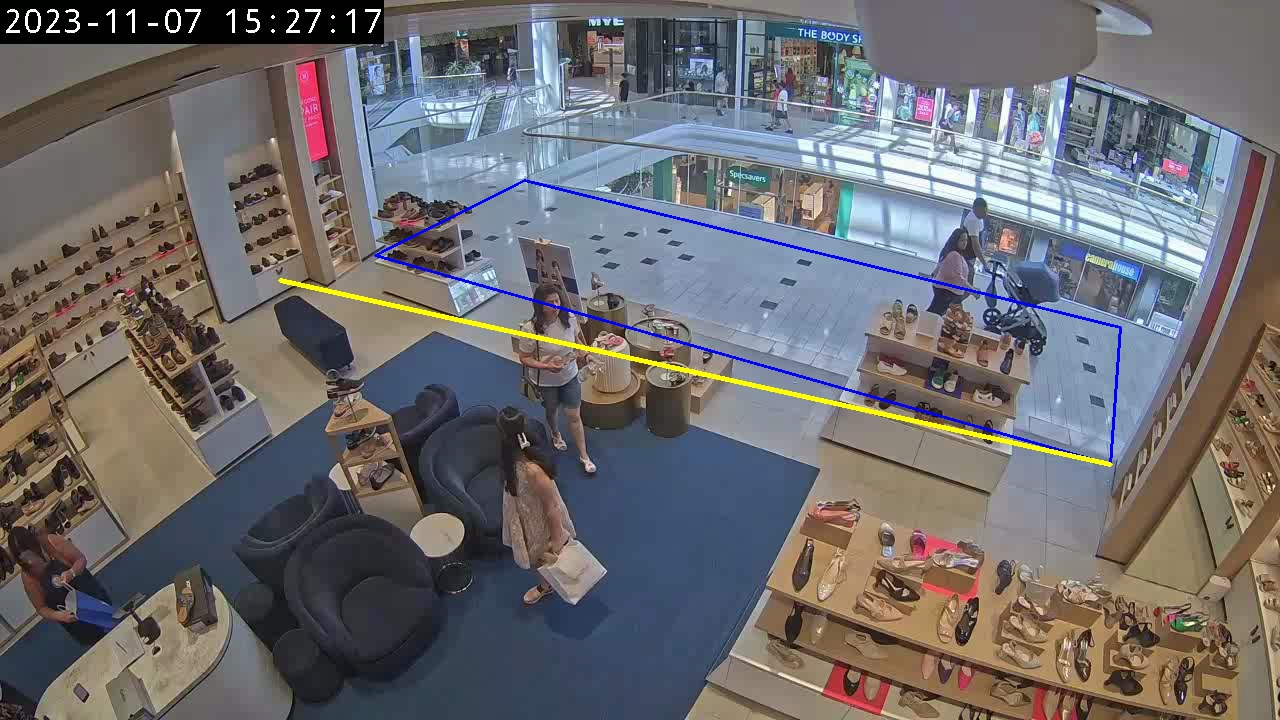
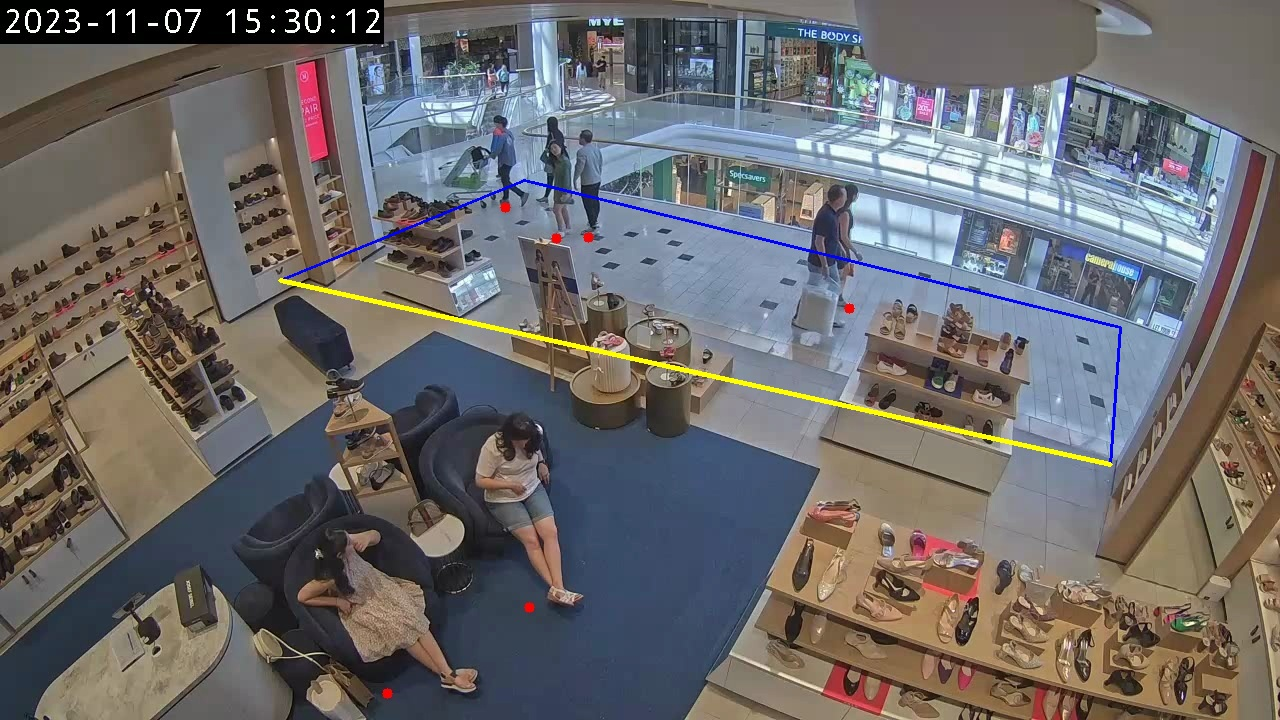
Update code

diff --git a/src/main.py b/src/main.py
@@ -1,32 +1,28 @@
-import cv2
-import numpy as np
-from ultralytics import YOLO
 from collections import defaultdict, deque
 import json
 from pathlib import Path
 
-from util import check_if_enter_store, check_if_exit_store, check_point_in_stop_zone, put_top_right_text
+import cv2
+import numpy as np
+import pandas as pd
+from sixdrepnet import SixDRepNet
+from ultralytics import YOLO
+
+from util import (
+    check_if_enter_store,
+    check_if_exit_store,
+    check_point_in_stop_zone,
+    put_top_right_text,
+    detect_face,
+    detect_head_pose,
+)
 
 current_dir = Path.cwd()
-
 config_path = current_dir.parents[0] / "config" / "task1.json"
+model_dir = current_dir.parents[0] / "model"
 
 with open(config_path, "r", encoding="utf-8") as f:
     config = json.load(f)
-
-
-video_path = current_dir.parents[0] / "input" / "enter.mp4"
-output_dir = current_dir.parents[0] / "output"
-output_path = output_dir / "task1_output.mp4"
-
-
-
-# VIDEO_PATH = "/Users/luqman/Downloads/Hendricks_Retail_Video_Analytics_Take_Home_Assessment_Brief_v5 1/raw_videos/entrance.mp4"
-# VIDEO_PATH = "/Users/luqman/Downloads/enter.mp4"
-
-
-
-
 
 # Minimum number of frames a person must remain almost stationary to be considered stopped.
 STOP_FRAMES = config["stop_frames"]
@@ -34,31 +30,34 @@ STOP_FRAMES = config["stop_frames"]
 STOP_DISTANCE = config["stop_distance"]
 # Number of frames to remember for each person
 HISTORY_LENGTH = config["history_length"]
+STOP_ZONE = np.array(config["stop_zone"], dtype=np.int32)
+ENTRANCE_A = config["entrance_a"]
+ENTRANCE_B = config["entrance_b"]
 
-STOP_ZONE = np.array([[524, 180], [1110, 464], [1120, 327], [375, 255]], dtype=np.int32)
-ENTRANCE_A = (280, 280)
-ENTRANCE_B = (1110, 464)
+yolo_model_path = model_dir / config["yolo_model_filename"]
+face_model_path = model_dir / config["face_model_filename"]
+yolo_model = YOLO(model=yolo_model_path)
+face_model = YOLO(model=face_model_path)
+pose_model = SixDRepNet(gpu_id=-1)
 
-
-positions = defaultdict(lambda: deque(maxlen=HISTORY_LENGTH))
-stop_counter = defaultdict(int)
-person_state = defaultdict(lambda: "UNK")
-
-
-entered_counter = 0
-pass_by_counter = 0
-
-model = YOLO("yolo26x.pt")
+video_path = current_dir.parents[0] / "input" / config["input_video_filename"]
+output_dir = current_dir.parents[0] / "output"
+output_path = output_dir / config["output_video_filename"]
+output_csv_path = output_dir / config["output_csv_filename"]
 
 
 cap = cv2.VideoCapture(video_path)
 fps = cap.get(cv2.CAP_PROP_FPS)
 width = int(cap.get(cv2.CAP_PROP_FRAME_WIDTH))
 height = int(cap.get(cv2.CAP_PROP_FRAME_HEIGHT))
-
 fourcc = cv2.VideoWriter_fourcc(*"mp4v")
 save_video = cv2.VideoWriter(output_path, fourcc, fps, (width, height))
 
+positions = defaultdict(lambda: deque(maxlen=HISTORY_LENGTH))
+stop_counter = defaultdict(int)
+person_state = defaultdict(lambda: "UNK")
+entered_counter = 0
+pass_by_counter = 0
 frame_number = 0
 
 while True:
@@ -67,8 +66,7 @@ while True:
         break
     frame_number += 1
 
-    # YOLO + ByteTrack
-    results = model.track(
+    results = yolo_model.track(
         frame,
         persist=True,
         tracker="yolo_tracker.yaml",
@@ -143,7 +141,20 @@ while True:
                     if person_exited:
                         person_state[person_id] = "EXITED"
 
-                if person_state[person_id] == "STOPPED" and not inside_stop_zone:
+                if person_state[person_id] == "STOPPED":
+                    if frame_number % 5 == 0:
+                        person_crop = frame[
+                            max(0, y1) : min(frame.shape[0], y2),
+                            max(0, x1) : min(frame.shape[1], x2),
+                        ]
+                        if person_crop.size > 0:
+                            face_crop = detect_face(person_crop)
+                            if face_crop is not None and face_crop.size > 0:
+                                yaw = detect_head_pose(face_crop)
+                                if yaw >= 30 and yaw <= 90:
+                                    person_state[person_id] = "INTERESTED"
+
+                if person_state[person_id] == "INTERESTED" and not inside_stop_zone:
                     person_state[person_id] = "PASSED_BY"
                     pass_by_counter += 1
 
@@ -152,12 +163,24 @@ while True:
             put_top_right_text(counter_text_1, height, width, frame)
             put_top_right_text(counter_text_2, height, width, frame, height_margin=40)
 
-    # cv2.imshow("Task 1", frame)
-    # key = cv2.waitKey(1) & 0xFF
-    # if key == ord("q"):
-    #     break
+#     cv2.imshow("Task 1", frame)
+#     key = cv2.waitKey(1) & 0xFF
+#     if key == ord("q"):
+#         break
 
-    save_video.write(frame)
+#     # save_video.write(frame)
 
-cap.release()
-cv2.destroyAllWindows()
+# cap.release()
+# cv2.destroyAllWindows()
+
+
+print("Writing output into csv ...")
+result_data = {
+    "Total Interested": entered_counter + pass_by_counter,
+    "Interested Entered": entered_counter,
+    "Interested Passed By": pass_by_counter
+}
+df = pd.DataFrame(result_data, index=[0])
+df.to_csv(output_csv_path, index=False)
+
+print("Done")

diff --git a/src/util.py b/src/util.py
@@ -60,12 +60,29 @@ def put_top_right_text(text, image_height, image_width, image, height_margin=0):
     cv2.putText(image, text, (x, y), font, font_scale, color, thickness, cv2.LINE_AA)
 
 
-if __name__ == "__main__":
-    STOP_ZONE = np.array(
-        [[524, 180], [1120, 327], [1110, 464], [375, 255]], dtype=np.int32
-    )
-    ENTRANCE_A = (375, 255)
-    ENTRANCE_B = (1110, 464)
+def detect_face(face_model, person_img):
+    face_results = face_model(person_img, conf=0.4, verbose=False)
 
-    o = check_point_in_stop_zone(point=(723, 268), polygon=STOP_ZONE)
-    print(o)
+    if len(face_results) < 1 or len(face_results[0].boxes) < 1:
+        return None
+
+    face_box = face_results[0].boxes[0]
+    face_x1, face_y1, face_x2, face_y2 = face_box.xyxy[0].cpu().numpy().astype(int)
+
+    pad_x = int((face_x2 - face_x1) * 0.2)
+    pad_y = int((face_y2 - face_y1) * 0.2)
+    px1 = max(0, face_x1 - pad_x)
+    py1 = max(0, face_y1 - pad_y)
+    px2 = min(person_img.shape[1], face_x2 + pad_x)
+    py2 = min(person_img.shape[0], face_y2 + pad_y)
+
+    face_crop = person_img[py1:py2, px1:px2]
+    return face_crop
+
+
+def detect_head_pose(pose_model, face_img):
+    """
+    Return: only yaw
+    """
+    pitch, yaw, roll = pose_model.predict(face_img)
+    return yaw

diff --git a/plot.py b/plot.py
@@ -4,13 +4,13 @@ import numpy as np
 ENTRANCE_A = (280, 280)
 ENTRANCE_B = (1110, 464)
 
-frame = cv2.imread('frame_1.png')
+frame = cv2.imread('frame.jpg')
 
 STOP_ZONE = np.array([
     [524, 180],
     [1120, 327],
     [1110, 464],
-    [375, 255]
+    [280, 280],
 ], dtype=np.int32)
 
 cv2.polylines(frame, [STOP_ZONE], True, (255, 0, 0), 2)

diff --git a/temp.py b/temp.py
@@ -66,7 +66,6 @@ if results[0].boxes.id is not None:
 
                 pad_x = int((face_x2 - face_x1) * 0.2)
                 pad_y = int((face_y2 - face_y1) * 0.2)
-
                 px1 = max(0, face_x1 - pad_x)
                 py1 = max(0, face_y1 - pad_y)
                 px2 = min(person_crop.shape[1], face_x2 + pad_x)
